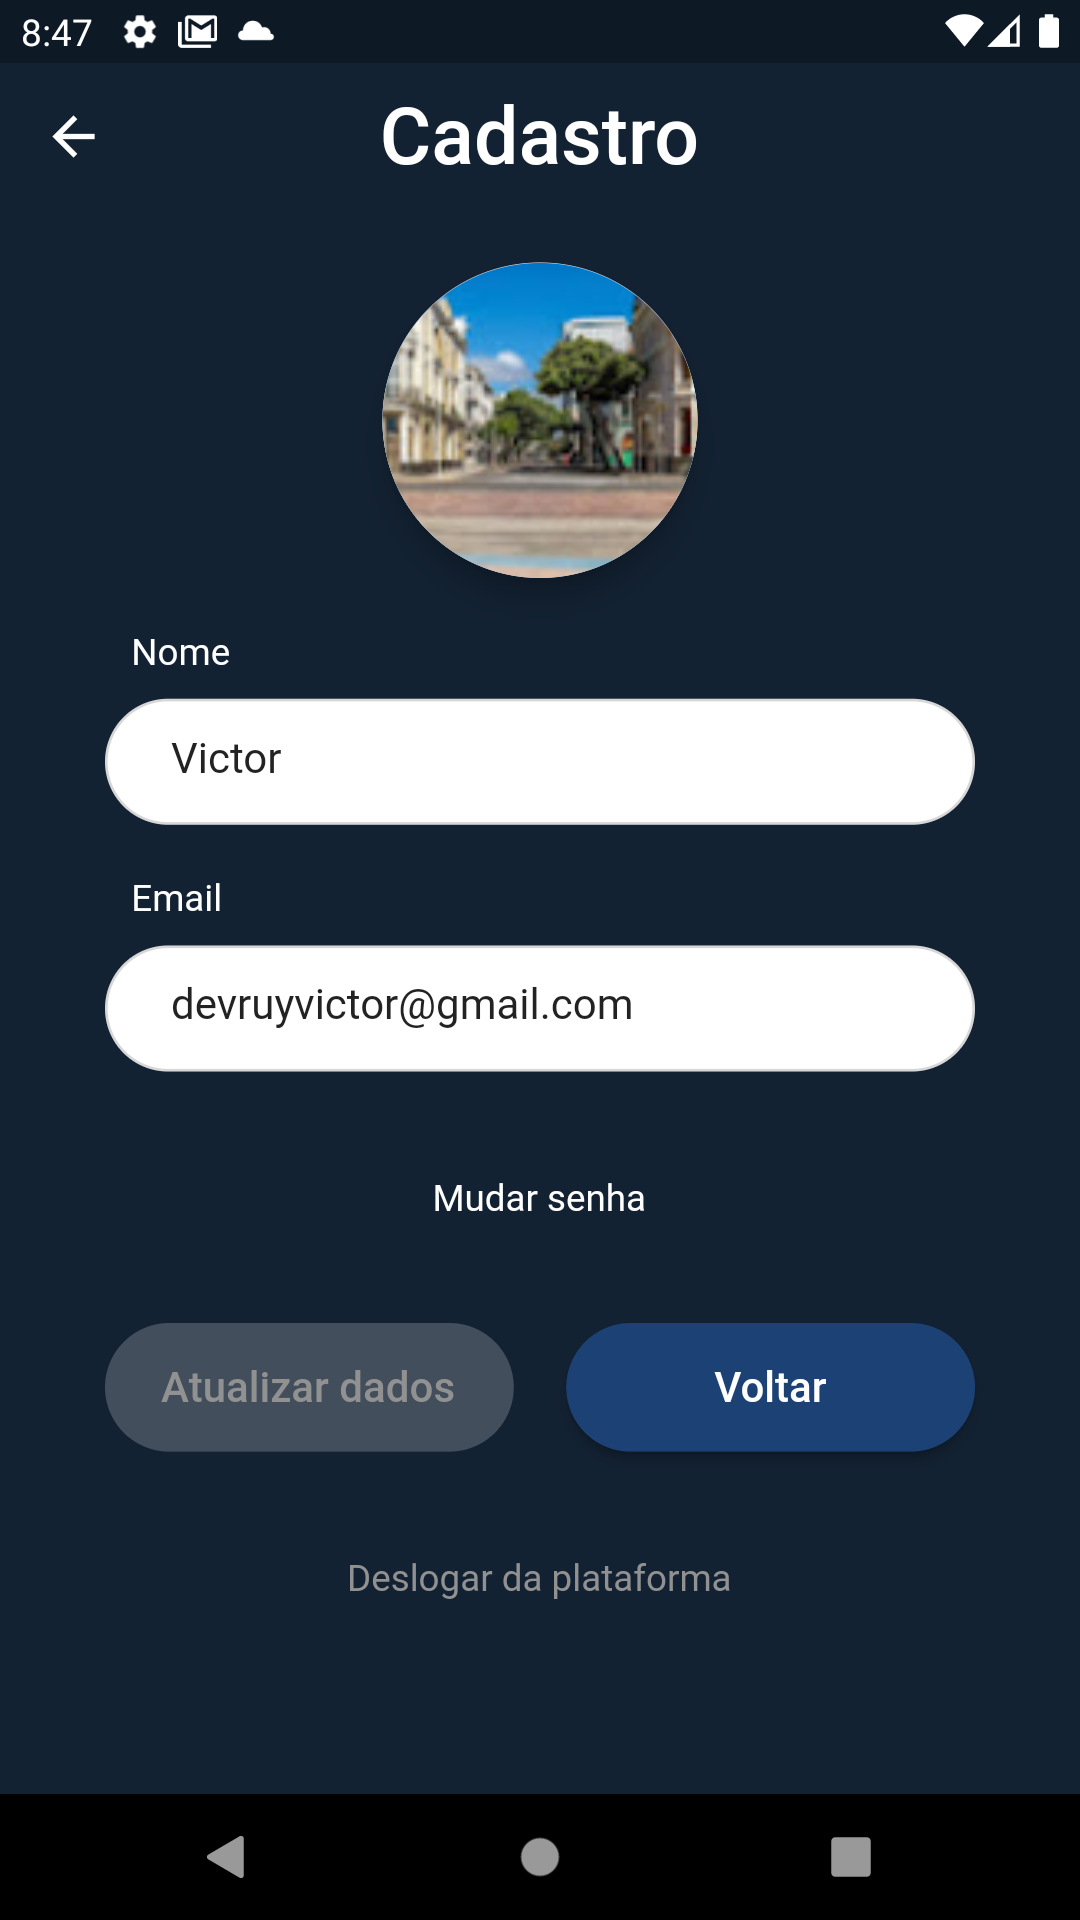
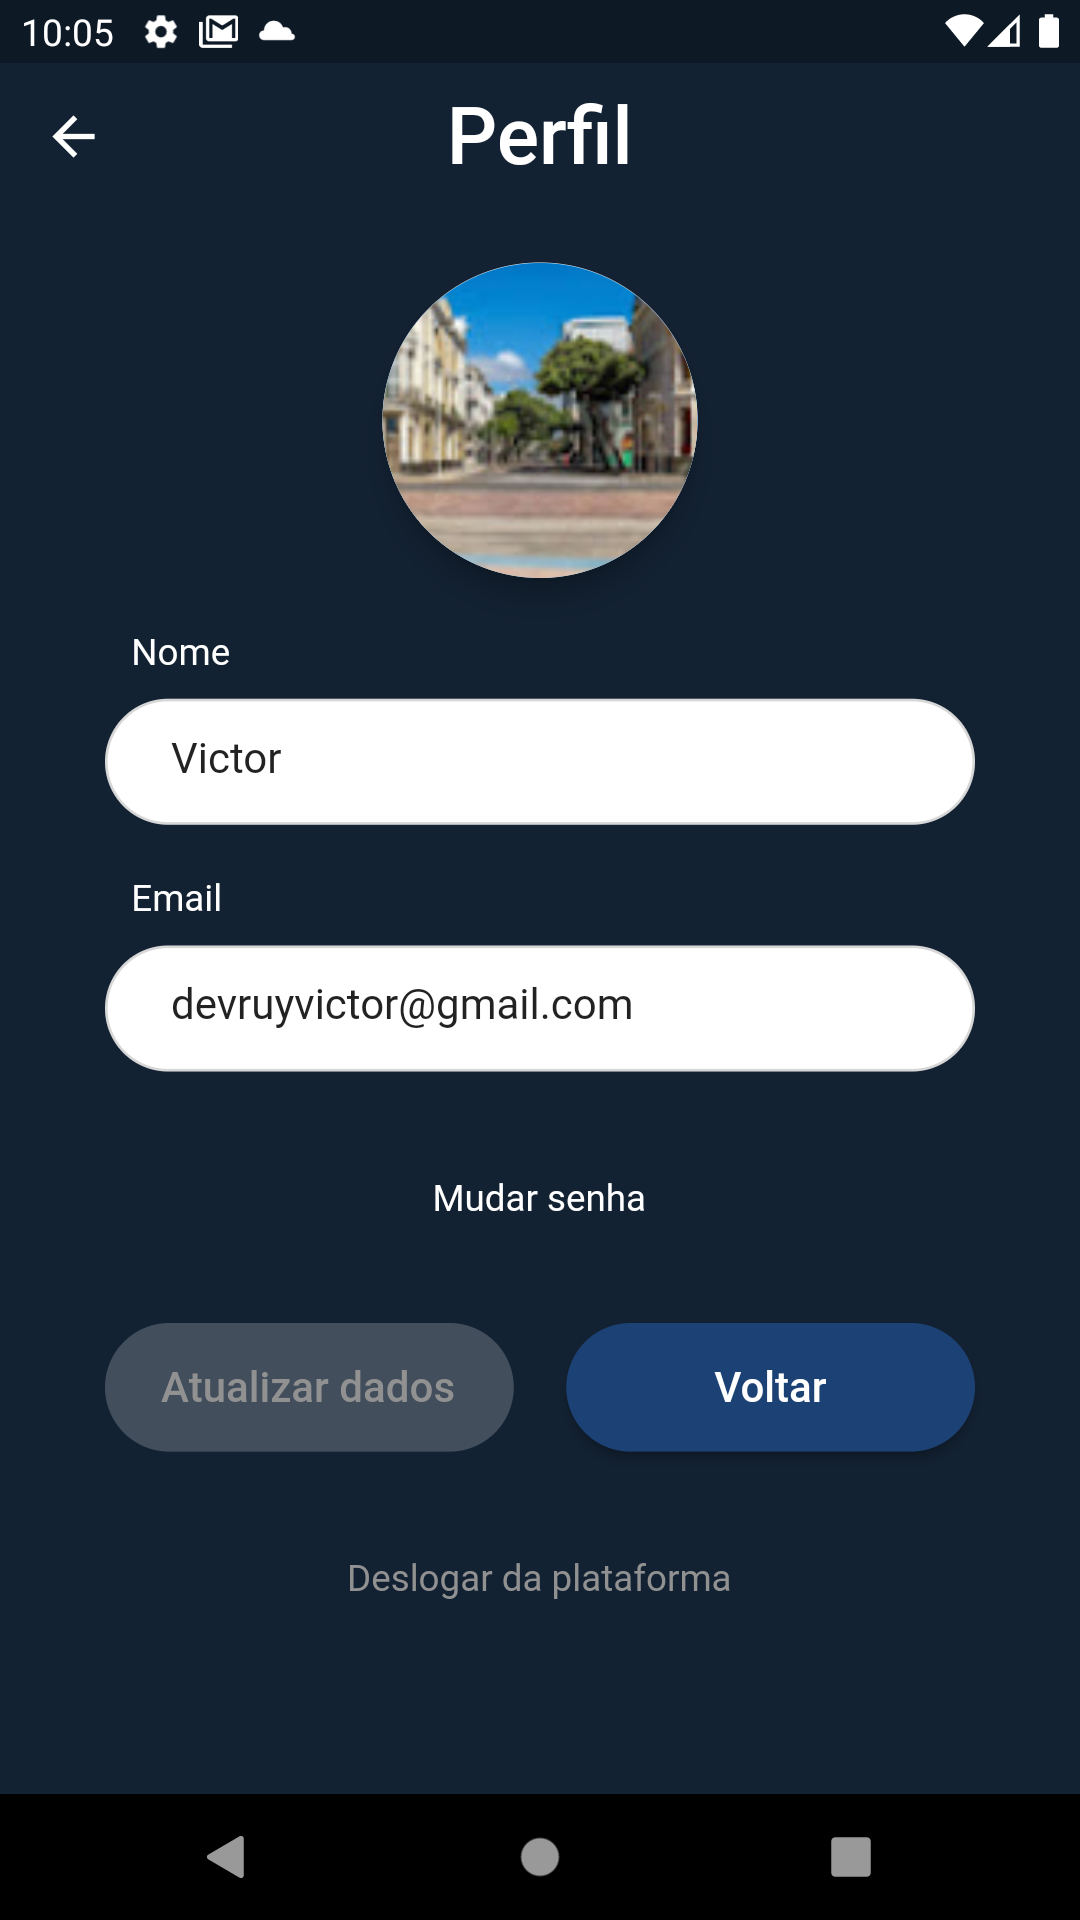
mend
v1.0.0

Changed region(s): [[0.3361, 0.0312, 0.6417, 0.0938], [0.0306, 0.0, 0.275, 0.0312]]

diff --git a/lib/screens/profile/profile_screen.dart b/lib/screens/profile/profile_screen.dart
@@ -96,7 +96,7 @@ class _ProfileScreenState extends State<ProfileScreen> {
             backgroundColor: Colors.transparent,
             elevation: 0,
             title: const Text(
-              'Cadastro',
+              'Perfil',
               style: TextStyle(fontSize: 30, color: AppColors.WHITE),
             ),
             centerTitle: true,
